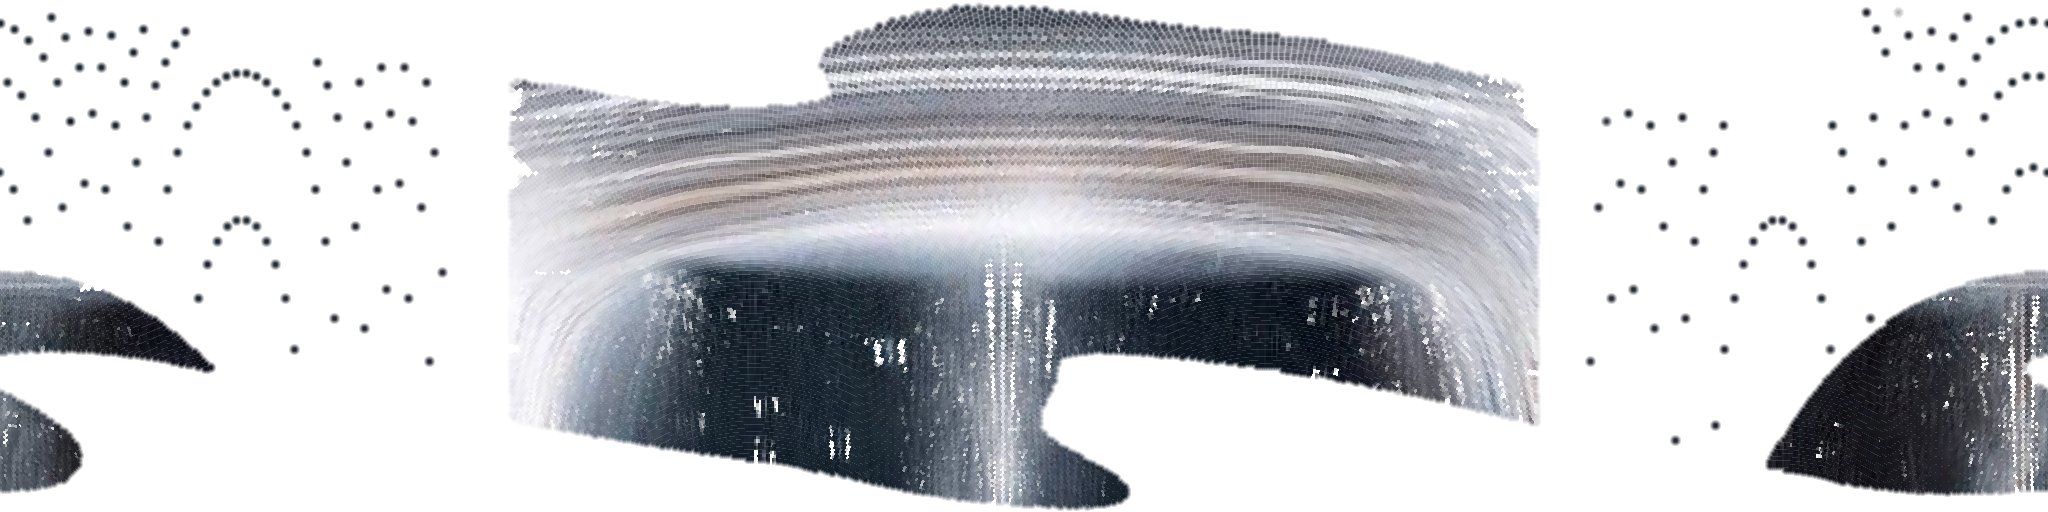
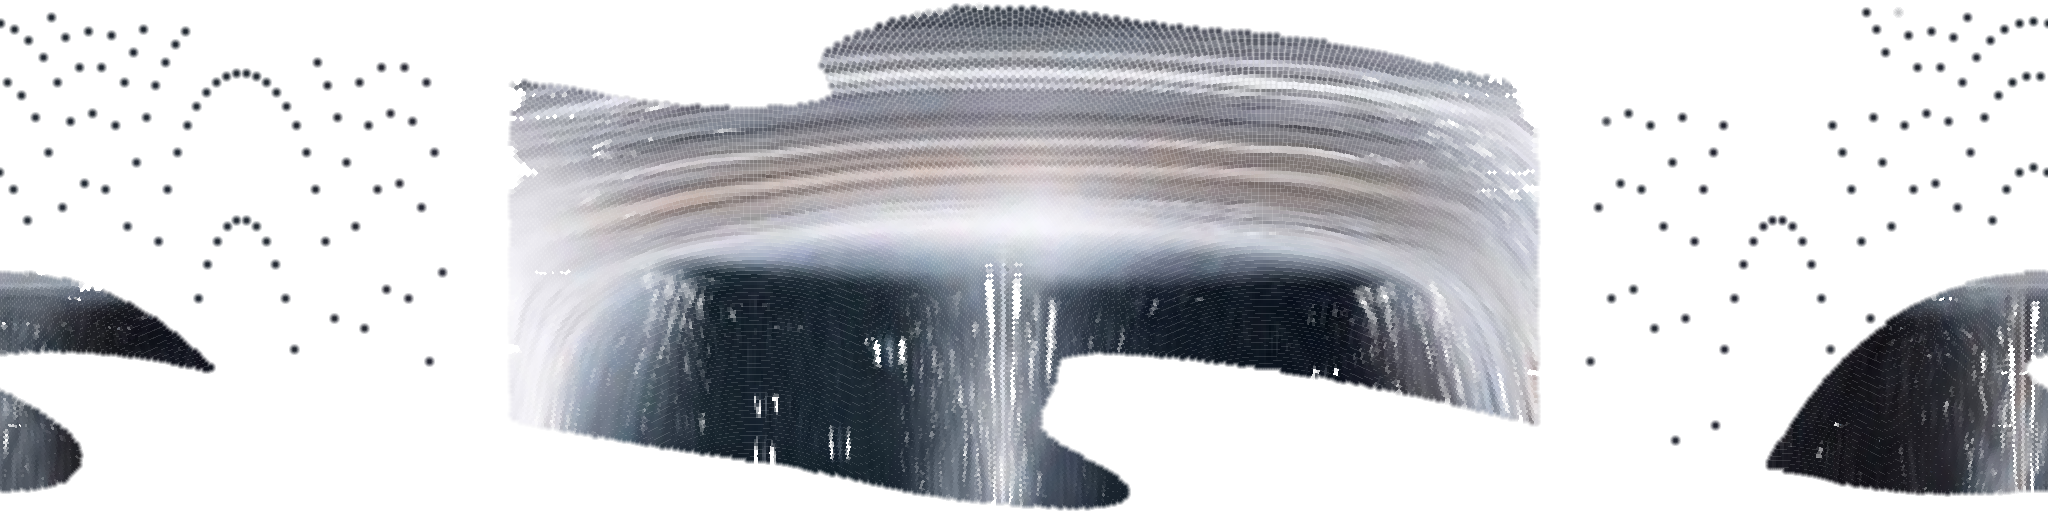
Silkier disk: draw the reference itself, cleaned of its compression blocks
The disk's enlarged rendering had become a patchwork: lane smoothing and hair-like filaments
drawn in directions that changed from region to region (and a blend with the orbit filter showed
hard boundaries). On the page the disk is now simply the reference, smoothly enlarged and lightly
sharpened, so the ring flows into the band exactly as silkily as in the reference. To keep that
clean on a Retina screen, the reference's 8x8 compression blocks are cleaned out of the source
(scripts/deblock-reference.py: a short smoothing along its own lanes, and a gentle one where it
is flat); everything is re-baked from it. The orbit-aligned filter and its synthetic fine lanes
are gone; the filaments stay in the surroundings, and on the disk only when zoomed right in.

diff --git a/src/blackhole.ts b/src/blackhole.ts
@@ -598,8 +598,7 @@ vec4 texLook(int typ, float r, float phi, float lod) {
 vec3 texFlow(int typ, vec3 X, vec3 pic) {
   float r = length(X);
   float phi = typ == 2 ? atan(dot(X, E2), dot(X, E1)) : atan(X.z, X.x);
-  // Enlarged, the textures' own texels would show: the flow then reads a softer level, and the
-  // finest moving detail comes from fineLanes instead.
+  // Enlarged, the textures' own texels would show: the flow then reads a softer level.
   float lod = max(texLod(), max(enlarged() * 1.5, deepZoom() * 2.5));
   vec4 here = texLook(typ, r, phi, lod);
   float trust = here.a * (1.0 - smoothstep(0.03, 0.12, abs(dot(here.rgb - pic, vec3(1.0 / 3.0)))));
@@ -650,8 +649,8 @@ vec3 screenLayerLin(vec2 p, vec3 beyond) {
   vec3 pic = textureLod(uTexScr, clamp(m, vec2(0.5), REF_SIZE - 0.5) / REF_SIZE, aroundLod()).rgb;
   return mix(beyond, pic, 1.0 - smoothstep(0.0, 90.0, o));
 }
-// Enlarged past the reference's own pixels, the picture is sharpened (unsharp mask against its
-// next mip) and the disk gains lanes finer than the reference holds, laid along the real orbits.
+// Enlarged past the reference's own pixels, the picture is sharpened a little (and round the hole,
+// in and by its shadow, smoothed along the circles its light runs on).
 vec3 pictureLin(vec2 p) {
   vec2 q = REF_C + vec2(p.x, -p.y) * (REF_PX / uScale);
   return textureLod(uTexScr, clamp(REF_SIZE - abs(REF_SIZE - abs(q)), vec2(0.5), REF_SIZE - 0.5) / REF_SIZE, 0.0).rgb;
@@ -665,24 +664,6 @@ vec3 pictureEdges(vec2 p) {
   vec2 d = vec2(0.75, -0.75) * (uScale / REF_PX);
   vec3 blur = (pictureLin(p + d.xx) + pictureLin(p + d.xy) + pictureLin(p + d.yx) + pictureLin(p + d.yy)) * 0.25;
   return pictureLin(p) - blur;
-}
-float fineLanes(vec3 X, int typ, float r, float g) {
-  // X in its disk plane, turned along its orbit (inner orbits faster).
-  vec2 h = typ == 2 ? vec2(dot(X, E1), dot(X, E2)) : X.xz;
-  float a = uTime * 0.35 * pow(max(r, 2.5) / 3.0, -1.5);
-  h = mat2(cos(a), sin(a), -sin(a), cos(a)) * h;
-  float refPx = g * uScale / REF_PX;   // Rs per reference pixel, across the lanes
-  float sum = 0.0, wsum = 0.0, f = 4.0;
-  for (int i = 0; i < 5; i++) {
-    float lam = 1.0 / f;
-    // Only wavelengths the reference cannot hold (under ~2.5 of its pixels) that the screen can (over 2.5 px).
-    float w = smoothstep(2.0, 3.5, lam / g) * (1.0 - smoothstep(1.5, 2.5, lam / refPx));
-    float warp = noise2(h * f * 0.06 + float(i) * 7.1) * 2.5;
-    sum += (noise2(vec2(r * f + warp, float(i) * 13.7)) - 0.5) * w;
-    wsum += w;
-    f *= 2.0;
-  }
-  return wsum > 0.0 ? sum / sqrt(wsum) : 0.0;
 }
 // Motion fades out near edges between surfaces (an occlusion edge, or the disk against the sky):
 // whatever rides one surface would jump there, where the picture is continuous. 0 at an edge.
@@ -1356,27 +1337,21 @@ void main() {
     // On the page itself (not zoomed in), the surroundings get the same lane refinement: the
     // starlight spray, the streaks, the jets and the outer wings (the body keeps its own treatment).
     float corner = hitType > 0 ? wingCorner(p) : 0.0;
-    float around = hitType > 0 ? 1.0 : (absorbed ? 0.0 : 1.0);
+    float around = hitType > 0 ? corner : (absorbed ? 0.0 : 1.0);
     float refW = max(deep, ((uReady & 64) != 0 ? smoothstep(1.6, 3.2, uScale / REF_PX) : 0.0) * around);
     if (en > 0.0 && refW < 1.0) {
-      // Which way the picture's lanes run: along the orbits on the disk (away from seams between
-      // surfaces, where the radius jumps from pixel to pixel), round the hole in and around its shadow.
-      // (and not where the seam map holds the disk still: its edges, and the wings' removed corners)
-      float onDisk = hitType > 0 ? (1.0 - smoothstep(8.0, 16.0, g * uScale)) * awayFromSeams(p) * (1.0 - corner) : 0.0;
-      float nearHole = absorbed ? 1.0 : hitType > 0 ? 1.0 - smoothstep(9.0, 12.0, gRu) : 1.0 - smoothstep(5.5, 7.0, gRu);
-      float calm = max(onDisk, nearHole);
+      // The disk is the picture itself, smoothly enlarged and sharpened a little: its own lanes,
+      // and the joins between the ring and the band, as silky as the reference's. In and by the
+      // shadow, the picture is smoothed along the circles its light runs on and sharpened across.
+      float calm = absorbed ? 1.0 : hitType > 0 ? 0.0 : 1.0 - smoothstep(5.5, 7.0, gRu);
       if (calm > 0.0) {
-        // Averaged along the lanes, which melts the reference's stair-steps, and sharpened across them.
         float k = uScale / REF_PX;
-        vec2 nd = gRu > 10.5 && onDisk > 0.0 ? gr / g : normalize(p + 1e-3);
+        vec2 nd = normalize(p + 1e-3);
         vec2 t = vec2(-nd.y, nd.x) * k, n = nd * k * 0.8;
         vec3 a0 = pictureAlong(p, t), a1 = pictureAlong(p + n, t), a2 = pictureAlong(p - n, t);
         vec3 crisp = max(a0 + (a0 - 0.5 * (a1 + a2)) * 0.8, 0.0);
         o += (crisp - screenLayer(p, vec3(0.0))) * en * calm * (1.0 - refW);
-        // The disk gains lanes finer than the reference holds.
-        if (onDisk > 0.0) o *= 1.0 + fineLanes(hitX, hitType, hr, g) * 0.45 * en * onDisk * (1.0 - refW);
       }
-      // The rest of the picture (jets, glow, stars) is simply sharpened.
       o += pictureEdges(p) * 0.3 * en * (1.0 - calm) * (1.0 - refW);
     }
     if (refW > 0.0) {
@@ -1390,6 +1365,7 @@ void main() {
       vec3 f0 = flowAt(q);
       float a = refW * smoothstep(0.06, 0.3, f0.z) * inFrame;
       a *= smoothstep(0.03, 0.08, max(p0.r, max(p0.g, p0.b)));   // (not in the dim sky, where they would not show)
+      a *= hitType > 0 ? max(corner, deep) : 1.0;   // (on the disk only when zoomed right in: on the page they read as wool)
       if (a > 0.0) o *= 1.0 + laneFilaments(q, uScale / REF_PX, f0.xy) * 0.075 * a;
     }
     float mot = clamp(uFlowAmt * 2.0, 0.0, 1.0);

diff --git a/scripts/deblock-reference.py b/scripts/deblock-reference.py
@@ -1,0 +1,46 @@
+#!/usr/bin/env python3
+"""Clean the reference's compression blocks (it came as a compressed image; enlarged 3.4x on a
+Retina screen its 8x8 blocks would show): smooth gently where the picture is flat (where blocks
+show), and a little along its own lanes everywhere (which melts block steps across the lanes
+without blurring the lanes themselves)."""
+# usage: python3 scripts/deblock-reference.py public/hole-ref.webp public/hole-ref.webp (then re-run the bake)
+import numpy as np, sys
+from PIL import Image
+from scipy import ndimage
+src, out = sys.argv[1], sys.argv[2]
+A = np.asarray(Image.open(src).convert('RGB')).astype(np.float64)
+L = A.mean(2)
+# Lane orientation (structure tensor), as in the bake.
+Ls = ndimage.gaussian_filter(L, 1.0)
+gx, gy = ndimage.sobel(Ls, 1), ndimage.sobel(Ls, 0)
+jxx, jxy, jyy = (ndimage.gaussian_filter(a, 3.0) for a in (gx * gx, gx * gy, gy * gy))
+tr = np.maximum(jxx + jyy, 1e-9)
+l1 = tr / 2 + np.sqrt(np.maximum(tr ** 2 / 4 - (jxx * jyy - jxy ** 2), 0))
+coh = (2 * l1 - tr) / tr
+th = 0.5 * np.arctan2(2 * jxy, jxx - jyy)          # gradient orientation
+tx, ty = -np.sin(th), np.cos(th)                    # along the lanes (x right, y down)
+H, W = L.shape
+ys, xs = np.mgrid[0:H, 0:W].astype(np.float64)
+def at(img, dx, dy):
+    return np.stack([ndimage.map_coordinates(img[..., c], [ys + dy, xs + dx], order=1, mode='nearest') for c in range(3)], -1)
+# Along the lanes, ±2 px (weights 1, .75, .4).
+acc = A * 1.0; ws = 1.0
+for s, w in ((0.9, 0.75), (1.8, 0.4)):
+    acc += (at(A, tx * s, ty * s) + at(A, -tx * s, -ty * s)) * w; ws += 2 * w
+along = acc / ws
+k = np.clip((coh - 0.08) / 0.3, 0, 1)[..., None]
+B = A + (along - A) * k
+# Flat areas: a gentle isotropic smooth.
+G = np.hypot(gx, gy) / 8.0
+flat = (1 - np.clip((G - 1.5) / 5.0, 0, 1))[..., None]
+S = np.stack([ndimage.gaussian_filter(B[..., c], 0.75) for c in range(3)], -1)
+B = B + (S - B) * flat * 0.6
+B = np.clip(np.round(B), 0, 255).astype(np.uint8)
+Image.fromarray(B).save(out, lossless=True, quality=100, method=6) if out.endswith('.webp') else Image.fromarray(B).save(out)
+def grid(a):
+    a = a.mean(2) if a.ndim == 3 else a
+    dy = np.abs(np.diff(a, axis=0)).mean(1); by = [dy[i::8].mean() for i in range(8)]
+    dx = np.abs(np.diff(a, axis=1)).mean(0); bx = [dx[i::8].mean() for i in range(8)]
+    return max(by) / np.median(by), max(bx) / np.median(bx)
+print('block grid ratio rows/cols  before %.2f/%.2f  after %.2f/%.2f' % (*grid(A), *grid(B.astype(float))))
+print('mean change %.2f levels' % np.abs(B.astype(float) - A).mean())

diff --git a/README.md b/README.md
@@ -13,7 +13,7 @@ Kelvin Tang's personal homepage, set at the edge of a black hole.
 ### What's on the page
 
 - **A rendered black hole, not a picture.** A WebGL2 fragment shader integrates Schwarzschild null geodesics pixel by pixel through a warped accretion disk: the bright band across the shadow, the long layered wings, and the far side of the disk lensed over and under the hole into a ring. The disk is matched pixel for pixel to a reference image. Every pixel of the reference is traced to where its ray meets the disk, and its colour is baked into the disk textures (`public/disk-*.webp`, made by [`scripts/bake-disk.py`](scripts/bake-disk.py)). Past the reference's frame, a procedural sky takes over. It is shown in the reference's own silver-white; add `?palette=red` to see it in red.
-- **Everything moves.** Light rides the disk's orbits at Kepler's pace (inner orbits faster), arcs stream round the hole along the reference's own light lanes, the jets fire pulses outwards, the wings turn with the disk, and the sprayed starlight streams away. Each layer keeps returning to the reference, and motion fades out where surfaces meet, so nothing tears. Drawn far larger than the reference, the picture is smoothed along its lanes and sharpened across them, with fine filaments grown along them.
+- **Everything moves.** Light rides the disk's orbits at Kepler's pace (inner orbits faster), arcs stream round the hole along the reference's own light lanes, the jets fire pulses outwards, the wings turn with the disk, and the sprayed starlight streams away. Each layer keeps returning to the reference, and motion fades out where surfaces meet, so nothing tears. Drawn larger than the reference, the disk is the picture itself, smoothly enlarged (its compression blocks cleaned out by [`scripts/deblock-reference.py`](scripts/deblock-reference.py)), so the ring flows into the band as silkily as in the reference; the surroundings are smoothed along their lanes and sharpened across them, with fine filaments grown along them.
 - **An intro, about 18 seconds.** A cyber nav HUD comes online. Coordinates for the Solar System are typed into the nav computer, and a scan sweeps the screen past Alpha Centauri, Barnard's Star, Sirius and TRAPPIST-1 before locking on Sol. The drive spools, counts down, and punches into hyperspace. Mid-jump the drive fails: the ship shakes harder and harder, the picture breaks up into TV static and goes black. After a beat, a sudden white light, and the ship is through, braking hard into an unknown sector next to the black hole. Skip it with any key; it plays once per tab, and `?intro` replays it.
 - **Five sections, five planets.** They float between the camera and the hole at different depths, with real perspective and parallax as the camera sways. Choosing one is a jump: lock, spool, a burst of speed, and arrival in a white-hot flash. The planet then grows into a world of its own beside the panel:
   - About: an ocean world
@@ -67,7 +67,7 @@ Kelvin Tang 的个人主页，场景设在一个黑洞的边缘。
 ### 页面上有什么
 
 - **实时渲染的黑洞，而不是一张图片。** WebGL2 片元着色器逐像素积分史瓦西零测地线，光线穿过一个扭曲的吸积盘：斜穿阴影的亮带、长长的层叠两翼，盘的背面经引力透镜弯到黑洞上下方，合成一道圆环。盘面与一张参考图逐像素对齐：参考图的每个像素都沿光线追踪到它落在盘上的位置，颜色烘焙进盘面纹理（`public/disk-*.webp`，由 [`scripts/bake-disk.py`](scripts/bake-disk.py) 生成）。参考图边框之外由程序生成的星空接续。画面保持参考图本来的银白色；网址加 `?palette=red` 可以看红色版本。
-- **整个画面都在动。** 光沿盘的轨道按开普勒速度流动（内圈快），黑洞周围的光弧沿参考图自身的光道绕行，两极喷流向外射出光脉冲，两翼随盘转动，溅射的星辉向外涌出。每层动效都会周期性地回到参考图本身，不同表面相接处动效渐弱，避免撕裂。放大到远超参考图分辨率时，画面沿光道平滑、垂直于光道锐化，并沿光道生成细丝纹理。
+- **整个画面都在动。** 光沿盘的轨道按开普勒速度流动（内圈快），黑洞周围的光弧沿参考图自身的光道绕行，两极喷流向外射出光脉冲，两翼随盘转动，溅射的星辉向外涌出。每层动效都会周期性地回到参考图本身，不同表面相接处动效渐弱，避免撕裂。放大显示时，盘面就是参考图本身平滑放大（参考图的压缩方块已由 [`scripts/deblock-reference.py`](scripts/deblock-reference.py) 清除），星环流进亮带的衔接和参考图一样丝滑；周围的星辉沿光道平滑、垂直于光道锐化，并沿光道生成细丝纹理。
 - **约 18 秒的开场。** 赛博风格的导航 HUD 上线，在导航电脑里输入太阳系的坐标；搜索圈横扫屏幕，依次掠过半人马座 α、巴纳德星、天狼星、TRAPPIST-1，最后锁定太阳系。引擎充能、倒计时，猛然冲进超空间。途中引擎故障：飞船越震越剧烈，画面变成电视雪花，随后黑屏；停顿片刻后白光骤现，完成跳跃，急刹进入一片未知星域，就在黑洞旁边。按任意键可跳过；每个标签页只播一次，网址加 `?intro` 可重播。
 - **五个板块，五颗星球。** 它们悬浮在相机与黑洞之间的不同深度，有真实的透视，镜头晃动时有视差。点开一个板块就是一次跃迁：锁定、充能、急加速、在白热闪光中抵达。随后那颗星球在面板旁放大成一个独立的世界：
   - About：海洋行星
